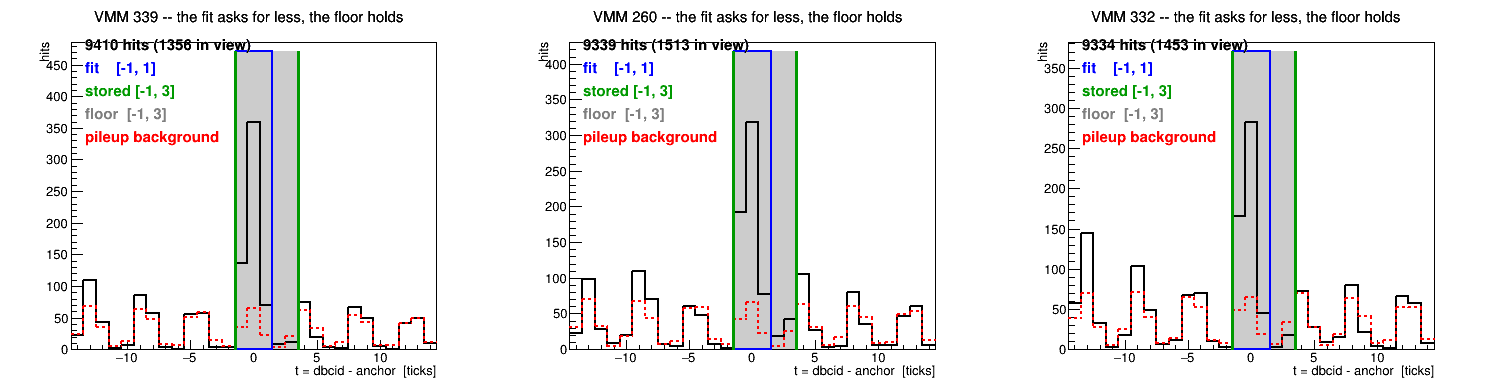
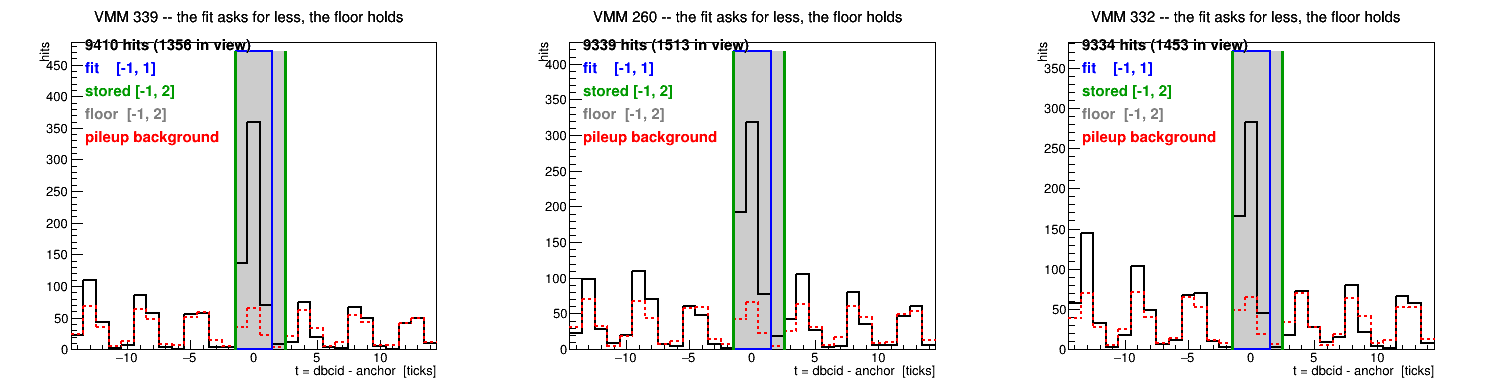
FTT timecut page: the floor is [-1,2], with the Au+Au run beside the pp one
Adds the per-tick signal and background table that decided it, and the four
reasons [-1,2] rather than [-1,3]: tick +3 is negative after background
subtraction on the pp data [-1,3] came from, it costs 15-18% more background
everywhere, [-1,2] is narrower than a bunch crossing while [-1,3] is wider, and
the extra tick's apparent safety margin only helps against an anchor error in
one direction.

The window figure now carries both runs. The Au+Au one is the same measurement
on far cleaner data -- background around 1% of the peak against roughly 25% for
pp -- so the crossing stands almost alone; in both the fit asks for [-1,1] or
[-1,2] and the floor holds at [-1,2].

Results table and the howto's expected wLo/wHi updated to the 56-run campaign:
median [-1,2] on every run, 19376 VMM entries at [-1,2], 626 [-2,2].

Claude-Session: https://claude.ai/code/session_01Ja7z3XUfUqiVzkNQkoczor

Changed region(s): [[0.8302, 0.1224, 0.8917, 0.8878], [0.5227, 0.1224, 0.5535, 0.8878], [0.1845, 0.1224, 0.2152, 0.8878]]

diff --git a/ftt_sim_hit_maker/timecut/index.html b/ftt_sim_hit_maker/timecut/index.html
@@ -494,25 +494,61 @@ the exception &mdash; <tt>fwd_afterburner_db.C</tt> sets mode 2 with its own
 </ul>
 
 <H2>and why it is only allowed to OPEN</H2>
-<p>The fitted window is then <b>widened, never tightened, to contain [-1,3]</b> &mdash; the
-one-crossing window of section 5. The fit may only open a VMM's cut further.</p>
+<p>The fitted window is then <b>widened, never tightened, to contain [-1,2]</b>. The fit
+may only open a VMM's cut further.</p>
 <ul>
   <li>The fit is per VMM, per run, from a few hundred events. The two errors it can make do
       not cost the same: a window one tick too wide costs a little pileup, a window one tick
       too narrow <b>throws away real hits, in production, silently</b>.
-  <li>So the floor is the number already trusted from the summed-over-all-VMM study, and the
-      fit only ever says "this VMM needs more room".
+  <li>So the floor is the number we trust without the fit, and the fit only ever says "this
+      VMM needs more room".
 </ul>
 
+<H3>Why [-1,2] and not [-1,3]</H3>
+<p>Section 5 concluded [-1,3] from the distribution summed over all VMMs. Per VMM the
+crossing is narrower, and the extra tick does not pay. Summed over every calibrated VMM in
+its own anchor frame, with the same phase-matched background the fit uses:</p>
 <TABLE BORDER="1" CELLPADDING="4" CELLSPACING="0">
-<TR BGCOLOR="#c0c0f0"><TH>the fit asks for less than the floor, and the floor holds it open</TH></TR>
-<TR><TD><a href="plots/fttWindow_floor_23081049.png"><img src="plots/fttWindow_floor_23081049.png" height="200"></a></TD></TR>
+<TR BGCOLOR="#c0c0f0"><TH>t</TH><TH COLSPAN=2>pp 23081049</TH><TH COLSPAN=2>AuAu 24192017</TH><TH COLSPAN=2>zero field 25174011</TH></TR>
+<TR BGCOLOR="#e0e0f0"><TH></TH><TH>signal</TH><TH>bkg</TH><TH>signal</TH><TH>bkg</TH><TH>signal</TH><TH>bkg</TH></TR>
+<TR><TD>-1</TD><TD>18165</TD><TD>7887</TD><TD>38068</TD><TD>859</TD><TD>368870</TD><TD>7027</TD></TR>
+<TR><TD>0</TD><TD>64610</TD><TD>15556</TD><TD>93254</TD><TD>895</TD><TD>805234</TD><TD>9793</TD></TR>
+<TR><TD>+1</TD><TD>15342</TD><TD>6821</TD><TD>26784</TD><TD>496</TD><TD>318857</TD><TD>6037</TD></TR>
+<TR><TD>+2</TD><TD>2411</TD><TD>1512</TD><TD>7145</TD><TD>333</TD><TD>33000</TD><TD>4600</TD></TR>
+<TR><TD><b>+3</b></TD><TD><b>-660</b></TD><TD>4795</TD><TD>5477</TD><TD>380</TD><TD>6676</TD><TD>4956</TD></TR>
+<TR><TD>+4</TD><TD>4625</TD><TD>14699</TD><TD>3207</TD><TD>630</TD><TD>213</TD><TD>8772</TD></TR>
 </TABLE>
-<p>Run 23081049, 200 events, three of the busiest VMMs in the run (9.3-9.4k hits each).
-Black = raw counts at <tt>t = dbcid - anchor</tt>, red dashed = the phase-matched pileup
-background, grey = the floor, blue = what the fit asked for, green = what is stored. The
-crossing structure is visible either side: the bumps at t = &plusmn;4 are the neighbouring
-bunch crossings.</p>
+<ul>
+  <li><b>Tick +3 is not signal on the field-on data [-1,3] came from</b>: 4135 raw counts
+      against 4795 of background, negative after subtraction. On zero field it is 0.4% of
+      the crossing. Only AuAu shows a real +3.3%, and there the tail keeps going past it
+      (+4 2.0%, +5 1.0%, +6 0.9%), so +3 is an arbitrary stopping point rather than an edge.
+  <li>It costs <b>15-18% more background</b> in all three.
+  <li>One bunch crossing is 4.263 ticks. <b>[-1,2] is four ticks</b>, narrower than the
+      period and unable to hold two crossings; [-1,3] is five, and must hold part of a
+      neighbour for some events. A floor wider than the bunch period contradicts everything
+      else here.
+  <li>The apparent safety margin of [-1,3] is mostly illusory. If an anchor is one tick
+      late the crossing moves to -2,-1,0 and both windows clip the same tick; [-1,3] only
+      helps when an anchor is <em>early</em> by two.
+</ul>
+<p>The summed distribution of section 5 is broader than any single VMM's because it mixes in
+the per-VMM anchor offsets measured below &mdash; some VMMs sit up to 12 ticks from their
+board. Per VMM the crossing really is the three ticks -1, 0, +1.</p>
+
+<TABLE BORDER="1" CELLPADDING="4" CELLSPACING="0">
+<TR BGCOLOR="#c0c0f0"><TH>pp field on, run 23081049</TH></TR>
+<TR><TD><a href="plots/fttWindow_floor_23081049.png"><img src="plots/fttWindow_floor_23081049.png" height="200"></a></TD></TR>
+<TR BGCOLOR="#c0c0f0"><TH>Au+Au, run 24192017</TH></TR>
+<TR><TD><a href="plots/fttWindow_floor_24192017.png"><img src="plots/fttWindow_floor_24192017.png" height="200"></a></TD></TR>
+</TABLE>
+<p>The busiest VMMs of each run, 200 events. Black = raw counts at
+<tt>t = dbcid - anchor</tt>, red dashed = the phase-matched pileup background, grey = the
+floor, blue = what the fit asked for, green = what is stored. On the pp run the crossing
+structure is visible either side &mdash; the bumps at t = &plusmn;4 are the neighbouring
+bunch crossings. The Au+Au run is the same measurement on far cleaner data: its background
+is around 1% of the peak against roughly 25% for pp, so the crossing stands almost alone.
+In both the fit asks for [-1,1] or [-1,2] and the floor holds the window at [-1,2].</p>
 
 <H2>Some VMMs are genuinely offset from their board</H2>
 <p>Anchors are set per front-end board, so the 4 VMMs of a FOB normally share one &mdash;
@@ -537,16 +573,21 @@ stored per VMM.</p>
 <H2>What comes out</H2>
 <TABLE BORDER="1" CELLPADDING="4" CELLSPACING="0">
 <TR BGCOLOR="#c0c0f0"><TH>run</TH><TH>stored windows</TH><TH>what the fit alone said</TH></TR>
-<TR><TD>23081049, 2022 field on</TD><TD><b>360 [-1,3]</b>, nothing else</TD>
+<TR><TD>23081049, 2022 field on</TD><TD>359 [-1,2], 1 [-1,3]</TD>
     <TD>mostly [-1,1] and [-1,2]</TD></TR>
-<TR><TD>24192017, 2023 AuAu</TD><TD>355 [-1,3], 2 [-2,3]</TD>
+<TR><TD>24192017, 2023 Au+Au</TD><TD>355 [-1,2], 2 [-2,2]</TD>
     <TD>mostly [-1,2] and [-1,1]</TD></TR>
+<TR><TD>25174011, 2024 zero field</TD><TD>310 [-1,2], 38 [-2,2]</TD>
+    <TD>mostly [-1,1] and [-1,2]</TD></TR>
+<TR><TD COLSPAN=3><b>all 56 calibrated runs</b>: 19376 VMM entries [-1,2], 626 [-2,2],
+    3 [-1,3], 2 [-1,6], 1 [-4,2], 1 [-1,7]</TD></TR>
 </TABLE>
 <ul>
-  <li>Stored median <b>[-1,3] on every run tried</b>, pp and AuAu, so the floor is what a
-      VMM gets unless its own crossing genuinely sits outside it.
-  <li>Once the fit cannot reach a neighbouring crossing, almost nothing does sit outside it:
-      the window is at most one bunch period wide and the floor already spans one.
+  <li>Stored median <b>[-1,2] on every one of the 56 runs</b>, pp, Au+Au and zero field,
+      so the floor is what a VMM gets unless its own crossing genuinely sits outside it.
+  <li>About 3% do sit outside it, almost all on the low side ([-2,2]: a peak one tick
+      early). The handful at [-1,6] and [-1,7] are the whole-chip offsets below, where the
+      window has travelled with the VMM's own peak.
   <li>A VMM with <tt>anchor = -1</tt> keeps the wide [-65,100]: it falls back to the
       consumer's on-the-fly anchor, which is not validated to the &plusmn;1 tick a
       one-crossing window needs.
@@ -657,8 +698,9 @@ all, holds 17621 <tt>st_fwd</tt> MuDsts over the day-081 runs alone:</p>
   <li><tt>nOK</tt> of 384, and <tt>rej</tt> / <tt>dead</tt> &mdash; how many VMMs got a
       usable anchor. A VMM that did not gets <tt>anchor = -1</tt> and the wide [-65,100],
       and the consumer falls back to its on-the-fly anchor for that VMM alone.
-  <li><tt>wLo wHi</tt> &mdash; the run's median stored window. Expect <tt>-1 3</tt>.
-      Anything else is worth a look before the run is used.
+  <li><tt>wLo wHi</tt> &mdash; the run's median stored window. Expect <tt>-1 2</tt>; all
+      56 runs of the 2026-10-16 campaign give exactly that. Anything else is worth a look
+      before the run is used.
   <li><tt>all</tt> &mdash; the fraction of raw hits inside the window. Comparable between
       runs of the same dataset; a run well below its neighbours is suspect.
 </ul>
